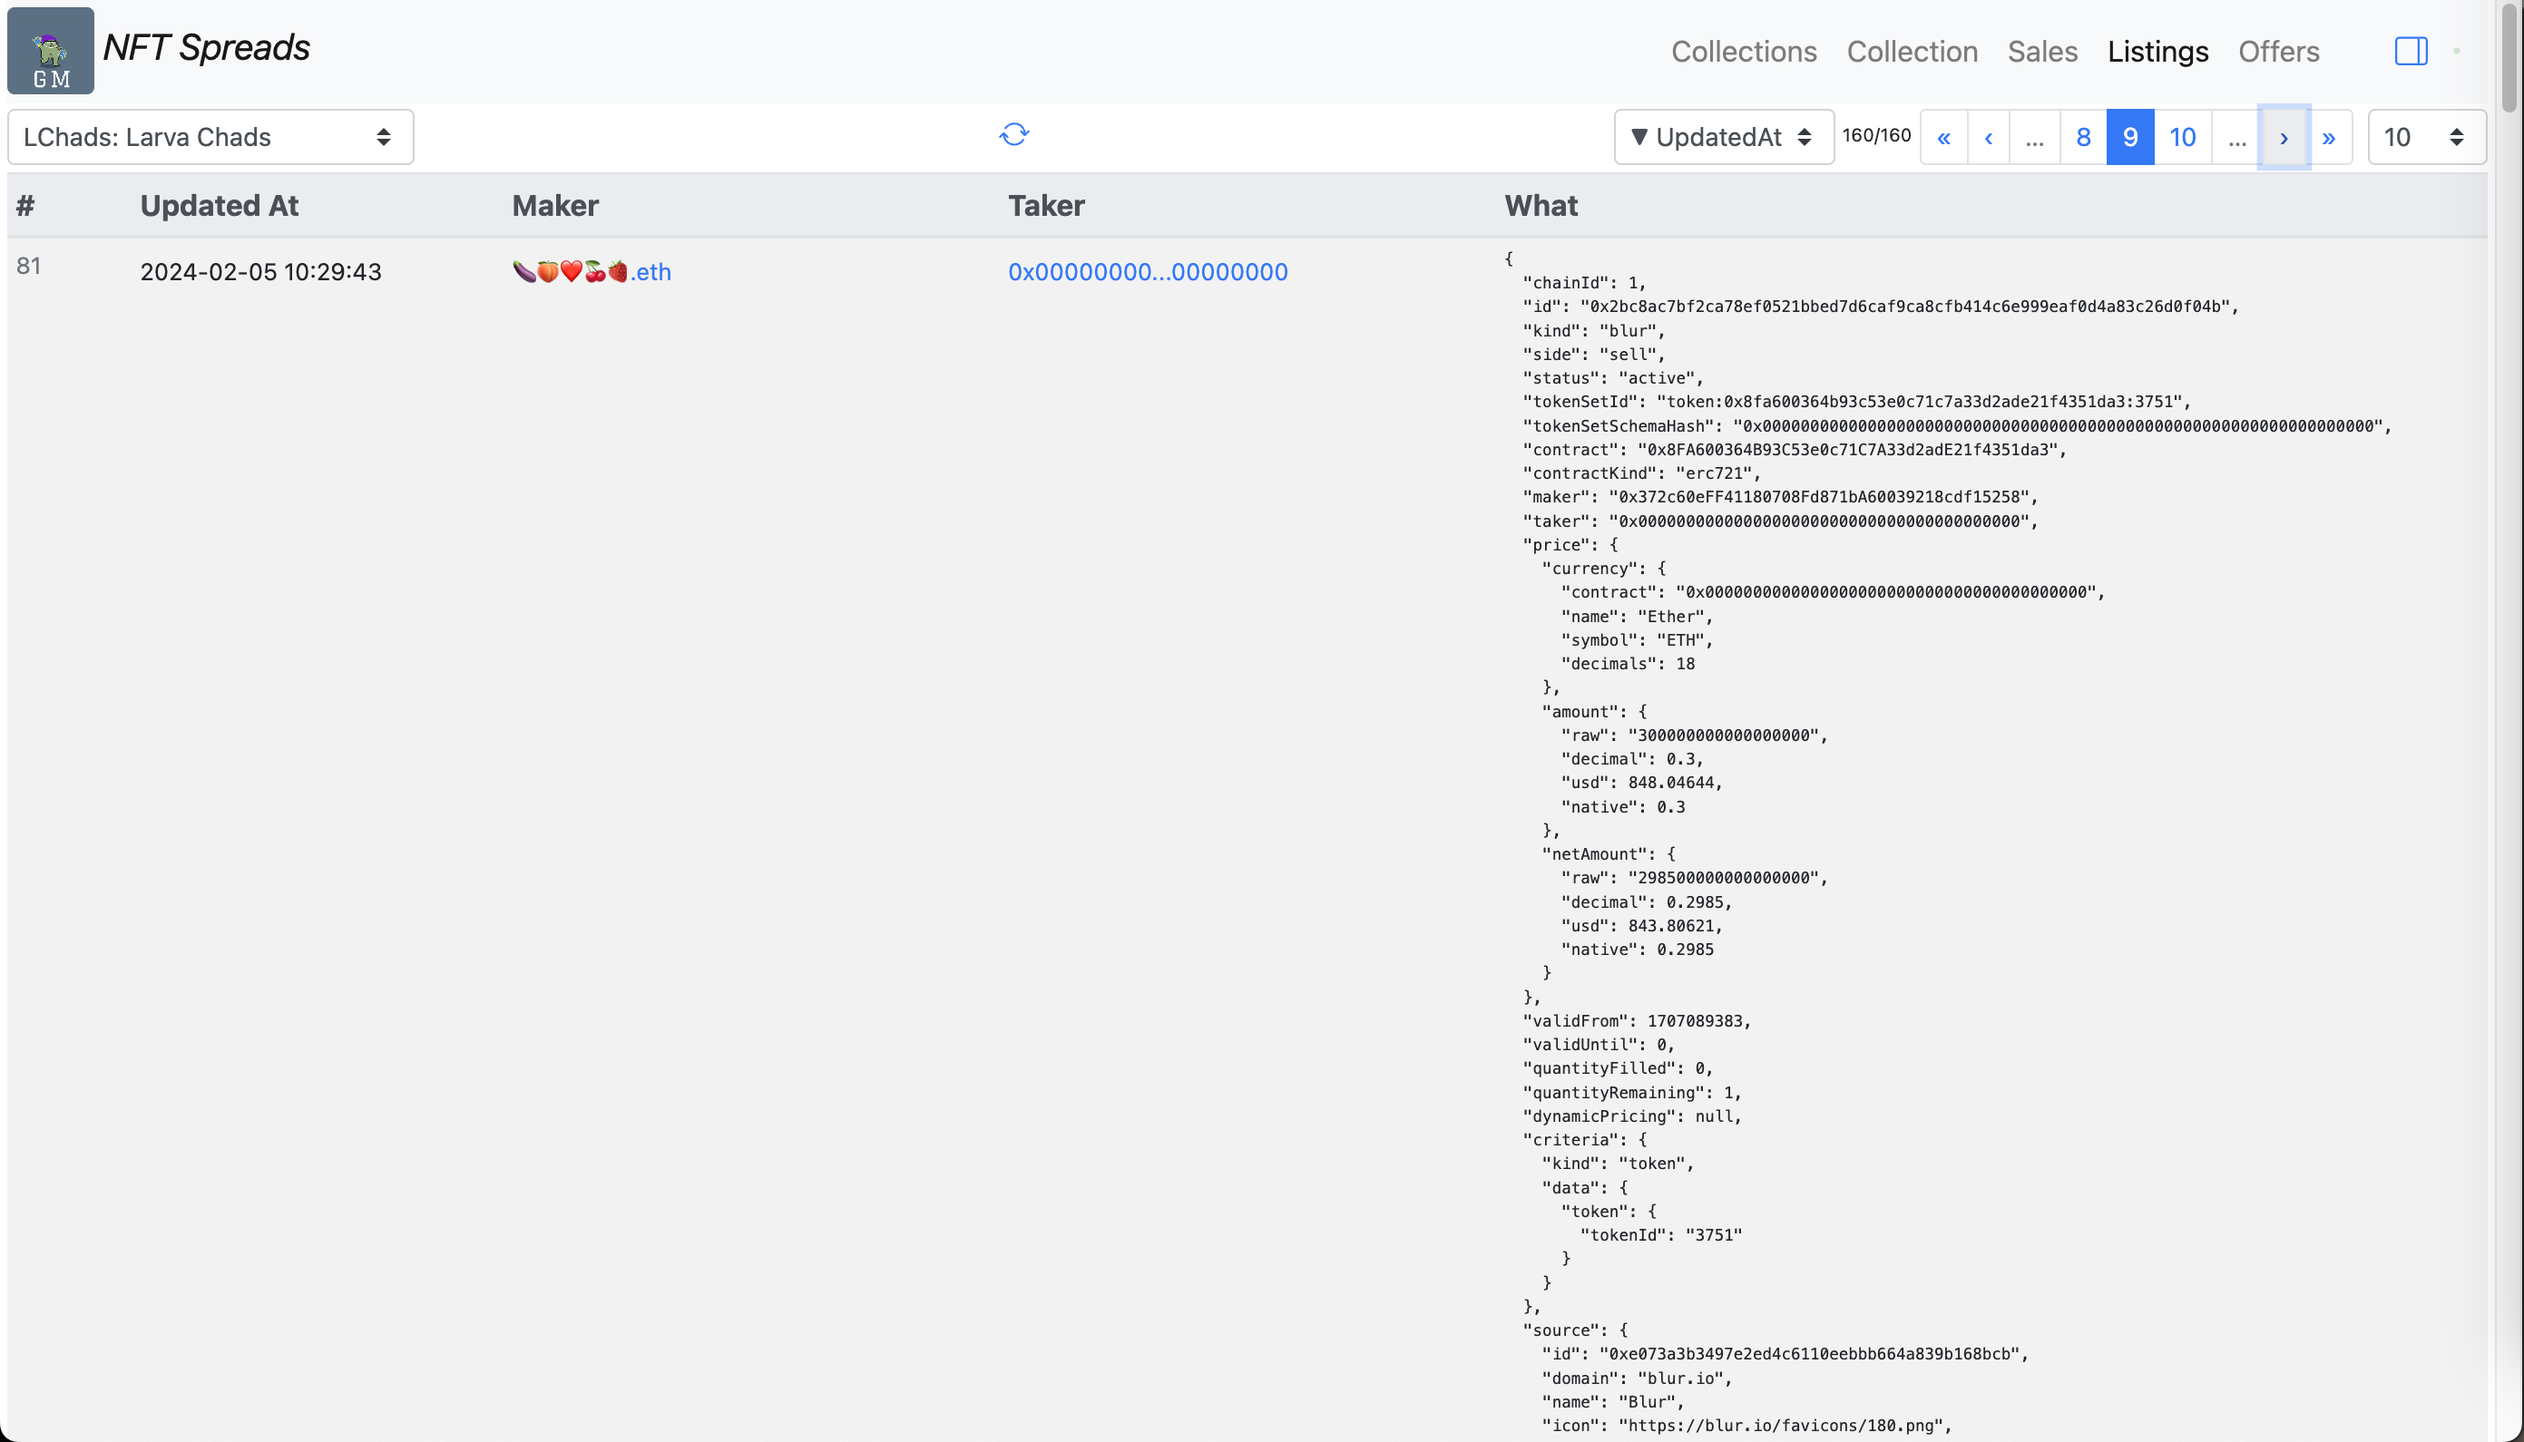
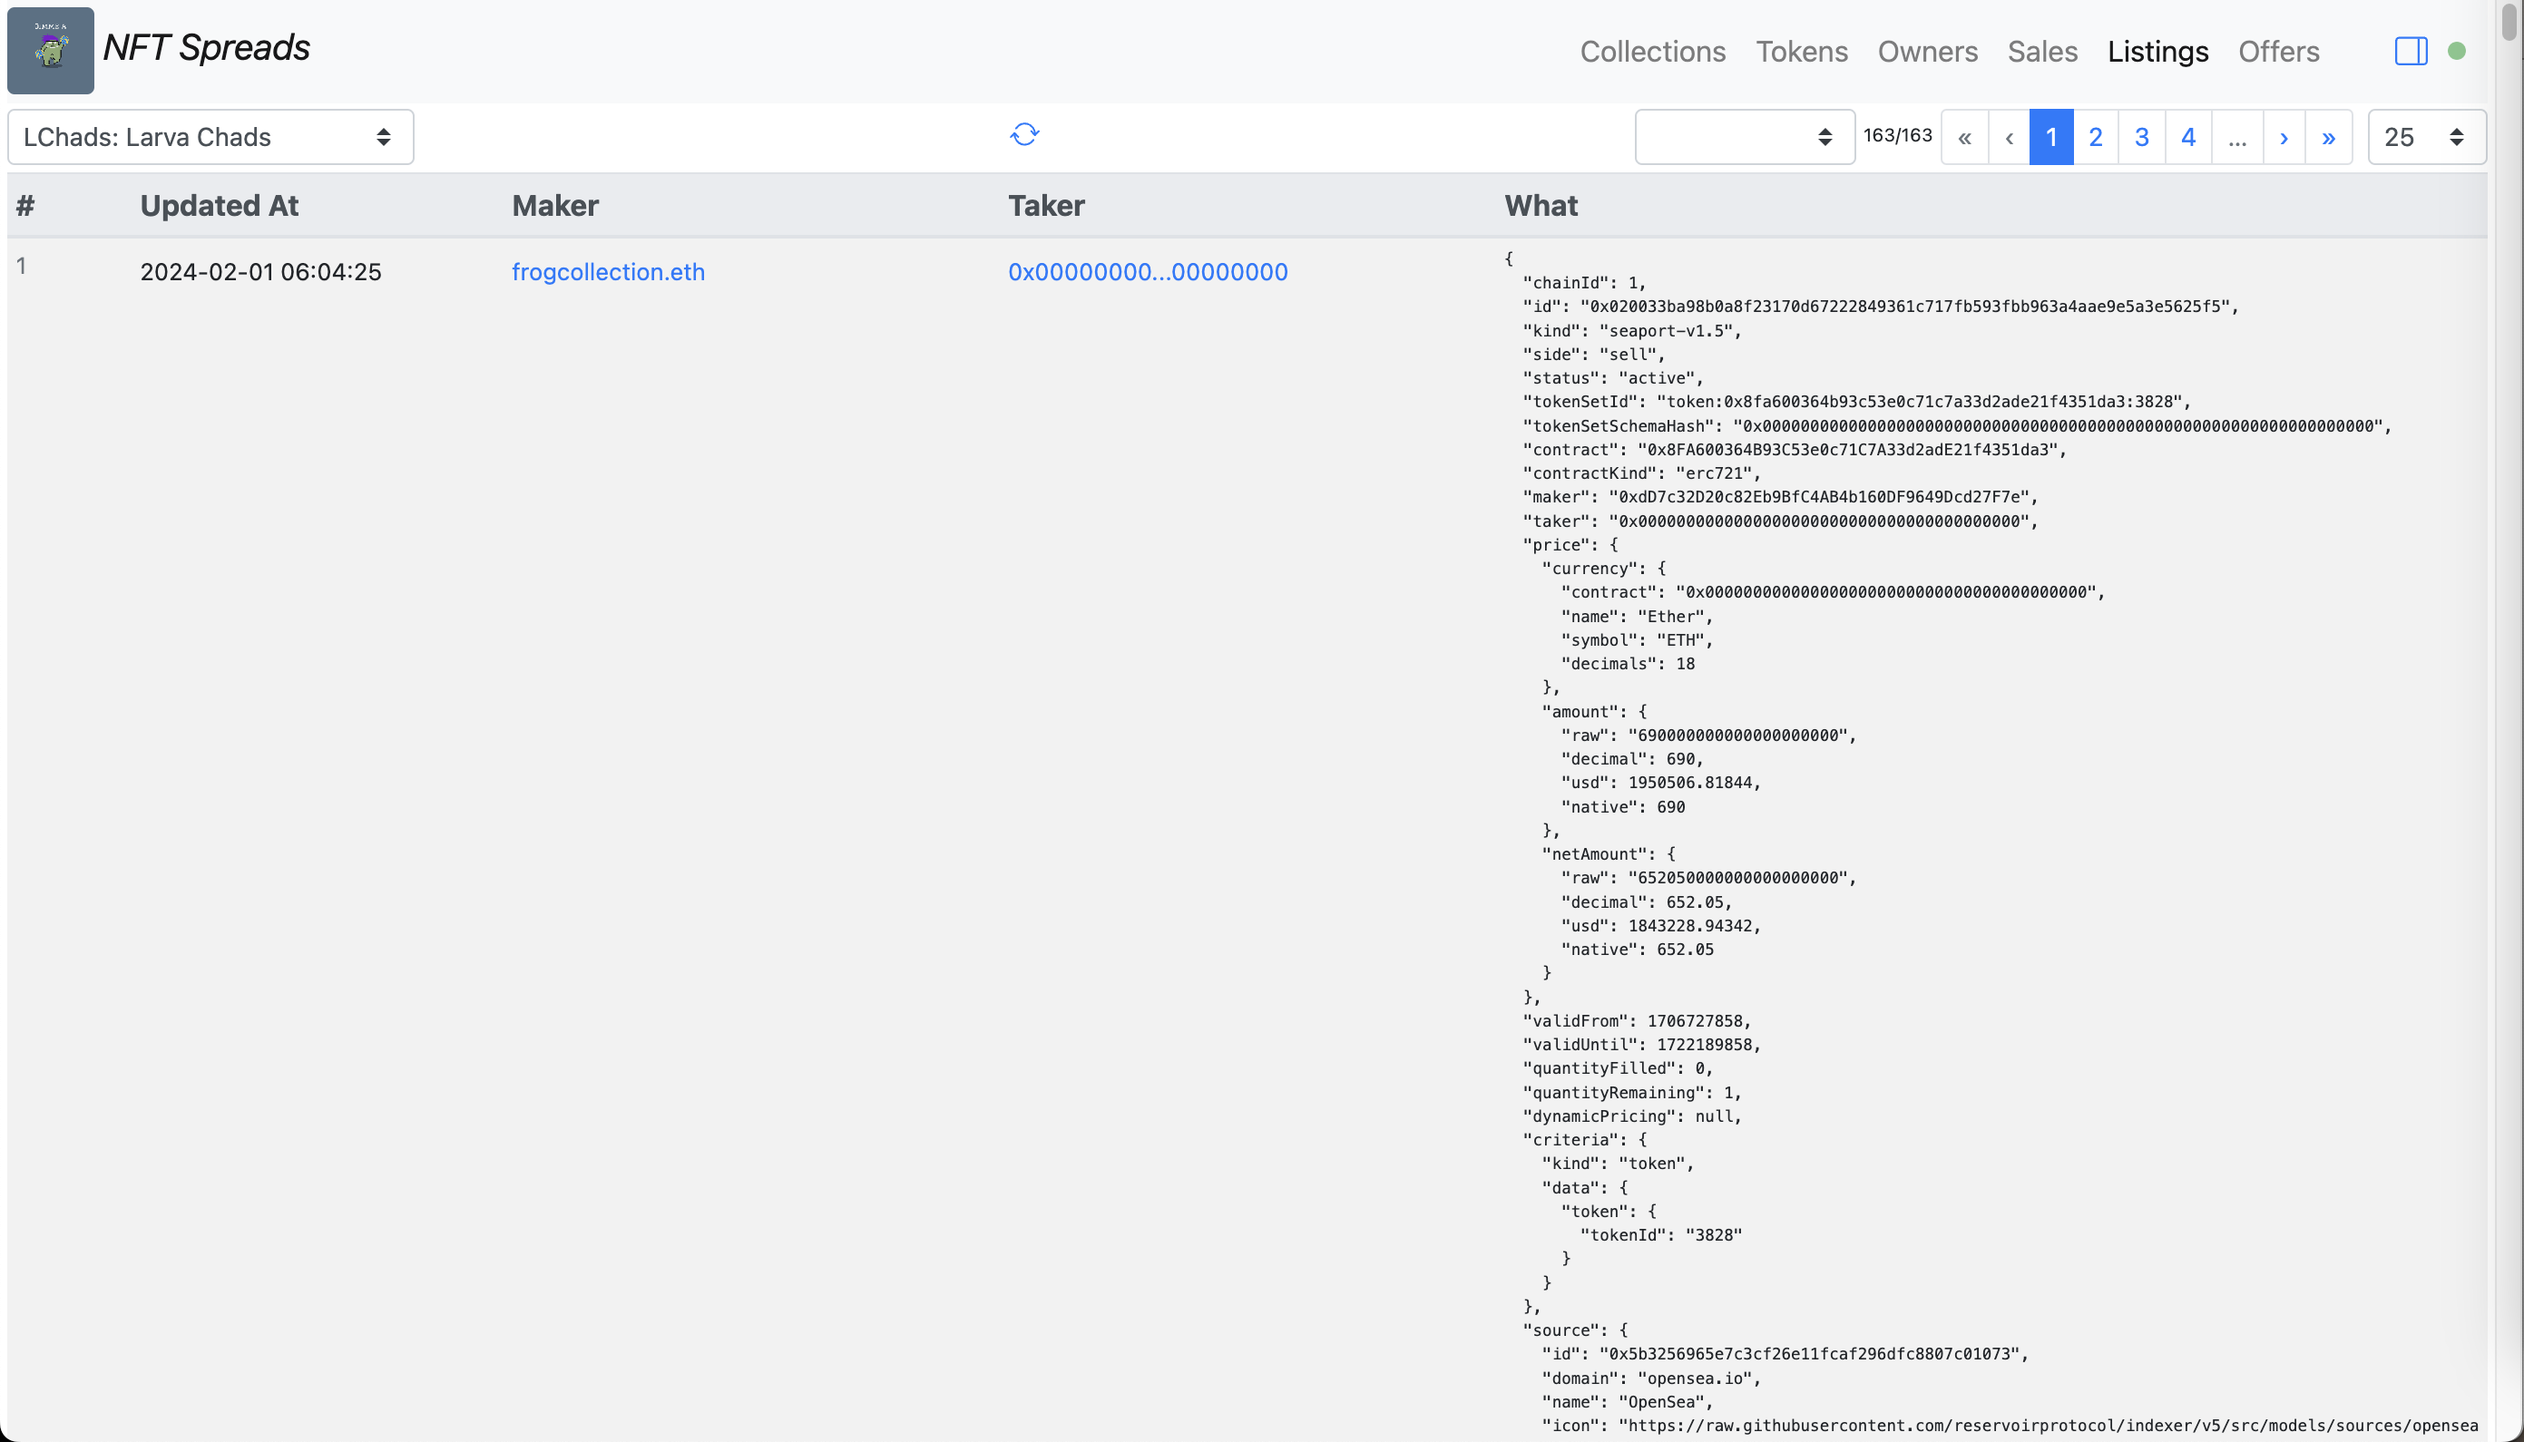
new screenshots

diff --git a/README.md b/README.md
@@ -10,9 +10,17 @@ Web3 UI [https://bokkypoobah.github.io/NFTSpreads/](https://bokkypoobah.github.i
 
 #### Collections
 
-Navigate to the Collection page, select "LChads: Larva Chads" from the drop down, click the Sync button.
+<kbd><img src="images/SampleScreen_Collections.png" /></kbd>
 
-<kbd><img src="images/SampleScreen_Collection.png" /></kbd>
+#### Tokens
+
+Navigate to the Tokens page, select "LChads: Larva Chads" from the drop down, click the Sync button.
+
+<kbd><img src="images/SampleScreen_Tokens.png" /></kbd>
+
+#### Owners
+
+<kbd><img src="images/SampleScreen_Owners.png" /></kbd>
 
 #### Sales
 
